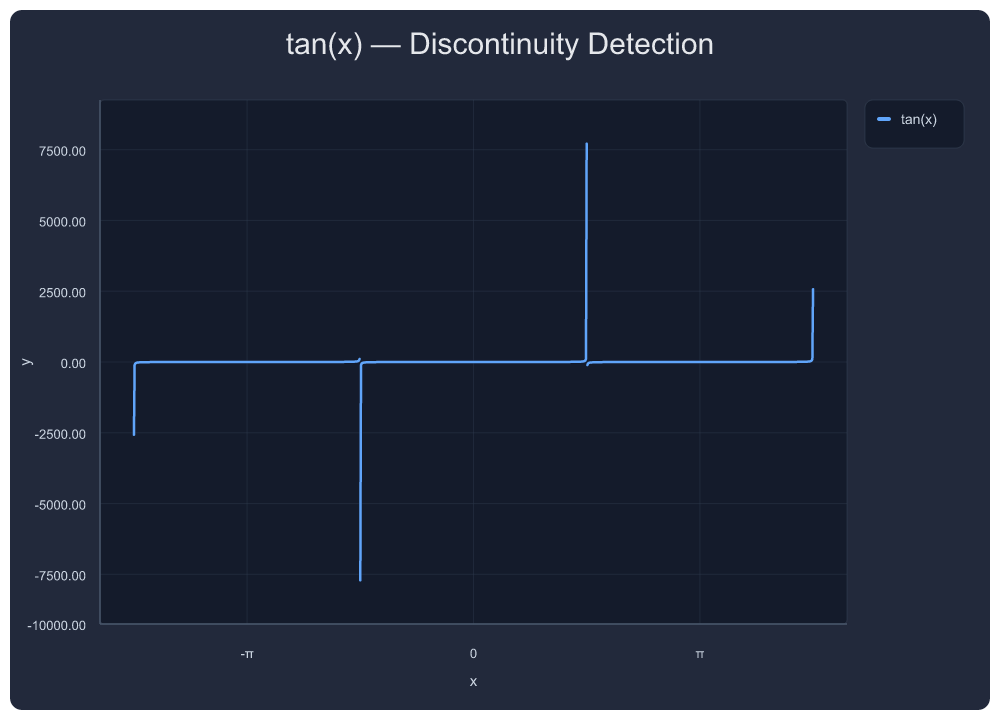
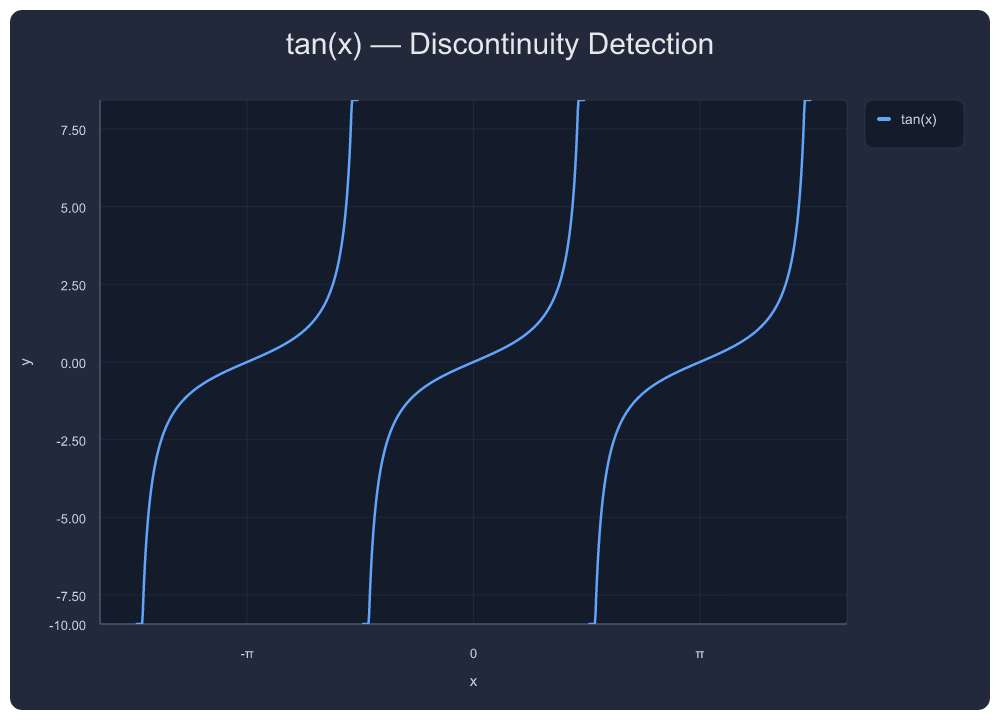
v0.4.14: annotation layout + tan(x) IQR bounds + showcase regen
- Annotation labels: area→inside lower, vline→bottom, point→above-right
- tan(x): IQR outlier clamping to prevent asymptote spike pollution
- Showcase #3 (tan) and #9 (annotated) regenerated with fixes
- Known issue: local label collision within same region (v0.4.15 scope)

diff --git a/src/render.ts b/src/render.ts
@@ -501,16 +501,25 @@ function firstSeriesAreaPath(spec: PlotSpec, xMin: number, xMax: number, plotX: 
 
 function renderAnnotations(spec: PlotSpec, plotX: number, plotY: number, plotWidth: number, plotHeight: number): string {
   const annotations = spec.annotations || [];
+  // ── Annotation layout rules ──
+  // Area labels: inside the area, lower portion, small + transparent to avoid visual clutter
+  // Vertical line labels: at the bottom of the plot, offset right from the line
+  // Point labels: above-right of the point, with extra offset to clear area labels
+  // Rule: area label goes low, point label goes high, vertical line label goes bottom
+
   const areaLayer = annotations.filter((item): item is Extract<PlotAnnotation, { kind: "area" }> => item.kind === "area").map((item) => {
     const path = firstSeriesAreaPath(spec, item.x_min, item.x_max, plotX, plotY, plotWidth, plotHeight);
     if (!path) return "";
     const labelX = mapX((item.x_min + item.x_max) / 2, spec.xMin, spec.xMax, plotX, plotWidth);
-    const labelY = plotY + 28;
-    return `<g><path d="${path}" fill="${item.color}" opacity="${item.opacity}"/><text x="${labelX.toFixed(2)}" y="${labelY}" font-size="17" text-anchor="middle" fill="#e5e7eb" font-weight="600">${formulaText(item.label)}</text></g>`;
+    // Place area label in the lower 60% of the area — away from point labels that sit above
+    const labelY = plotY + plotHeight * 0.62;
+    return `<g><path d="${path}" fill="${item.color}" opacity="${item.opacity}"/><text x="${labelX.toFixed(2)}" y="${labelY.toFixed(2)}" font-size="12" text-anchor="middle" fill="#e5e7eb" font-weight="500" opacity="0.7">${formulaText(item.label)}</text></g>`;
   }).join("");
   const lineLayer = annotations.filter((item): item is Extract<PlotAnnotation, { kind: "vertical_line" }> => item.kind === "vertical_line").map((item) => {
     const x = mapX(item.x, spec.xMin, spec.xMax, plotX, plotWidth);
-    return `<g><line x1="${x.toFixed(2)}" y1="${plotY}" x2="${x.toFixed(2)}" y2="${plotY + plotHeight}" stroke="${item.color}" stroke-width="2.5" stroke-dasharray="8 7"/><text x="${(x + 8).toFixed(2)}" y="${plotY + 24}" font-size="14" fill="#e5e7eb" font-weight="600">${formulaText(item.label)}</text></g>`;
+    // Place label at the very bottom of the plot, left-aligned to the line
+    const labelY = plotY + plotHeight - 6;
+    return `<g><line x1="${x.toFixed(2)}" y1="${plotY}" x2="${x.toFixed(2)}" y2="${plotY + plotHeight}" stroke="${item.color}" stroke-width="2" stroke-dasharray="6 6" opacity="0.8"/><text x="${(x + 5).toFixed(2)}" y="${labelY.toFixed(2)}" font-size="12" fill="#e5e7eb" font-weight="500" opacity="0.8">${formulaText(item.label)}</text></g>`;
   }).join("");
   const pointLayer = annotations.filter((item): item is Extract<PlotAnnotation, { kind: "point" }> => item.kind === "point").map((item) => {
     const x = mapX(item.x, spec.xMin, spec.xMax, plotX, plotWidth);

diff --git a/src/plot.ts b/src/plot.ts
@@ -736,6 +736,24 @@ function calculateBounds(series: NormalizedSeries[], annotations: PlotAnnotation
   let yMin = ys.length ? Math.min(...ys) : -1;
   let yMax = ys.length ? Math.max(...ys) : 1;
 
+  // Clamp extreme y-values for expression plots (e.g., tan(x) near asymptotes)
+  // Use IQR-based outlier detection: discard values beyond 3×IQR from quartiles
+  if (ys.length > 20) {
+    const sorted = [...ys].sort((a, b) => a - b);
+    const q1 = sorted[Math.floor(sorted.length * 0.25)];
+    const q3 = sorted[Math.floor(sorted.length * 0.75)];
+    const iqr = q3 - q1;
+    if (iqr > 0) {
+      const lowerBound = q1 - 3 * iqr;
+      const upperBound = q3 + 3 * iqr;
+      const clamped = ys.filter(v => v >= lowerBound && v <= upperBound);
+      if (clamped.length > sorted.length * 0.5) {
+        yMin = Math.min(...clamped);
+        yMax = Math.max(...clamped);
+      }
+    }
+  }
+
   // Bar-aware x-padding: bars have width, domain must extend beyond data center points
   const barSeries = series.filter((s) => s.type === "bar");
   if (barSeries.length > 0 && xs.length > 1) {

diff --git a/README_CN.md b/README_CN.md
@@ -262,11 +262,11 @@ x = ±1 处的垂直渐近线标记。引擎渲染极点间隙时无伪影尖刺
   "x_min": 0, "x_max": 20,
   "title": "衰减正弦 + 全标注",
   "annotations": [
-    {"kind": "area", "x_min": 4.5, "x_max": 7.5, "label": "第1峰值区", "color": "#60a5fa", "opacity": 0.15},
-    {"kind": "area", "x_min": 11, "x_max": 14, "label": "第2峰值区", "color": "#34d399", "opacity": 0.15},
-    {"kind": "point", "x": 5.5, "y": 0.58, "label": "峰值 1", "color": "#fbbf24"},
-    {"kind": "point", "x": 12, "y": 0.30, "label": "峰值 2", "color": "#fbbf24"},
-    {"kind": "vertical_line", "x": 10, "label": "半衰期 ≈ 10", "color": "#f87171"}
+    {"kind": "area", "x_min": 0.8, "x_max": 2.2, "label": "第1峰值区", "color": "#60a5fa", "opacity": 0.12},
+    {"kind": "area", "x_min": 7.0, "x_max": 8.5, "label": "第2峰值区", "color": "#34d399", "opacity": 0.12},
+    {"kind": "point", "x": 1.471, "y": 0.859, "label": "峰值 1", "color": "#fbbf24"},
+    {"kind": "point", "x": 7.754, "y": 0.458, "label": "峰值 2", "color": "#fbbf24"},
+    {"kind": "vertical_line", "x": 6.93, "label": "半衰期 ≈ 6.93", "color": "#f87171"}
   ]
 }}
 ```

diff --git a/README.md b/README.md
@@ -263,11 +263,11 @@ Area shading, point markers, vertical line, and text labels — all annotation t
   "x_min": 0, "x_max": 20,
   "title": "Decaying Sine with Annotations",
   "annotations": [
-    {"kind": "area", "x_min": 4.5, "x_max": 7.5, "label": "1st peak zone", "color": "#60a5fa", "opacity": 0.15},
-    {"kind": "area", "x_min": 11, "x_max": 14, "label": "2nd peak zone", "color": "#34d399", "opacity": 0.15},
-    {"kind": "point", "x": 5.5, "y": 0.58, "label": "Peak 1", "color": "#fbbf24"},
-    {"kind": "point", "x": 12, "y": 0.30, "label": "Peak 2", "color": "#fbbf24"},
-    {"kind": "vertical_line", "x": 10, "label": "Half-life ≈ 10", "color": "#f87171"}
+    {"kind": "area", "x_min": 0.8, "x_max": 2.2, "label": "1st peak zone", "color": "#60a5fa", "opacity": 0.12},
+    {"kind": "area", "x_min": 7.0, "x_max": 8.5, "label": "2nd peak zone", "color": "#34d399", "opacity": 0.12},
+    {"kind": "point", "x": 1.471, "y": 0.859, "label": "Peak 1", "color": "#fbbf24"},
+    {"kind": "point", "x": 7.754, "y": 0.458, "label": "Peak 2", "color": "#fbbf24"},
+    {"kind": "vertical_line", "x": 6.93, "label": "Half-life ≈ 6.93", "color": "#f87171"}
   ]
 }}
 ```
